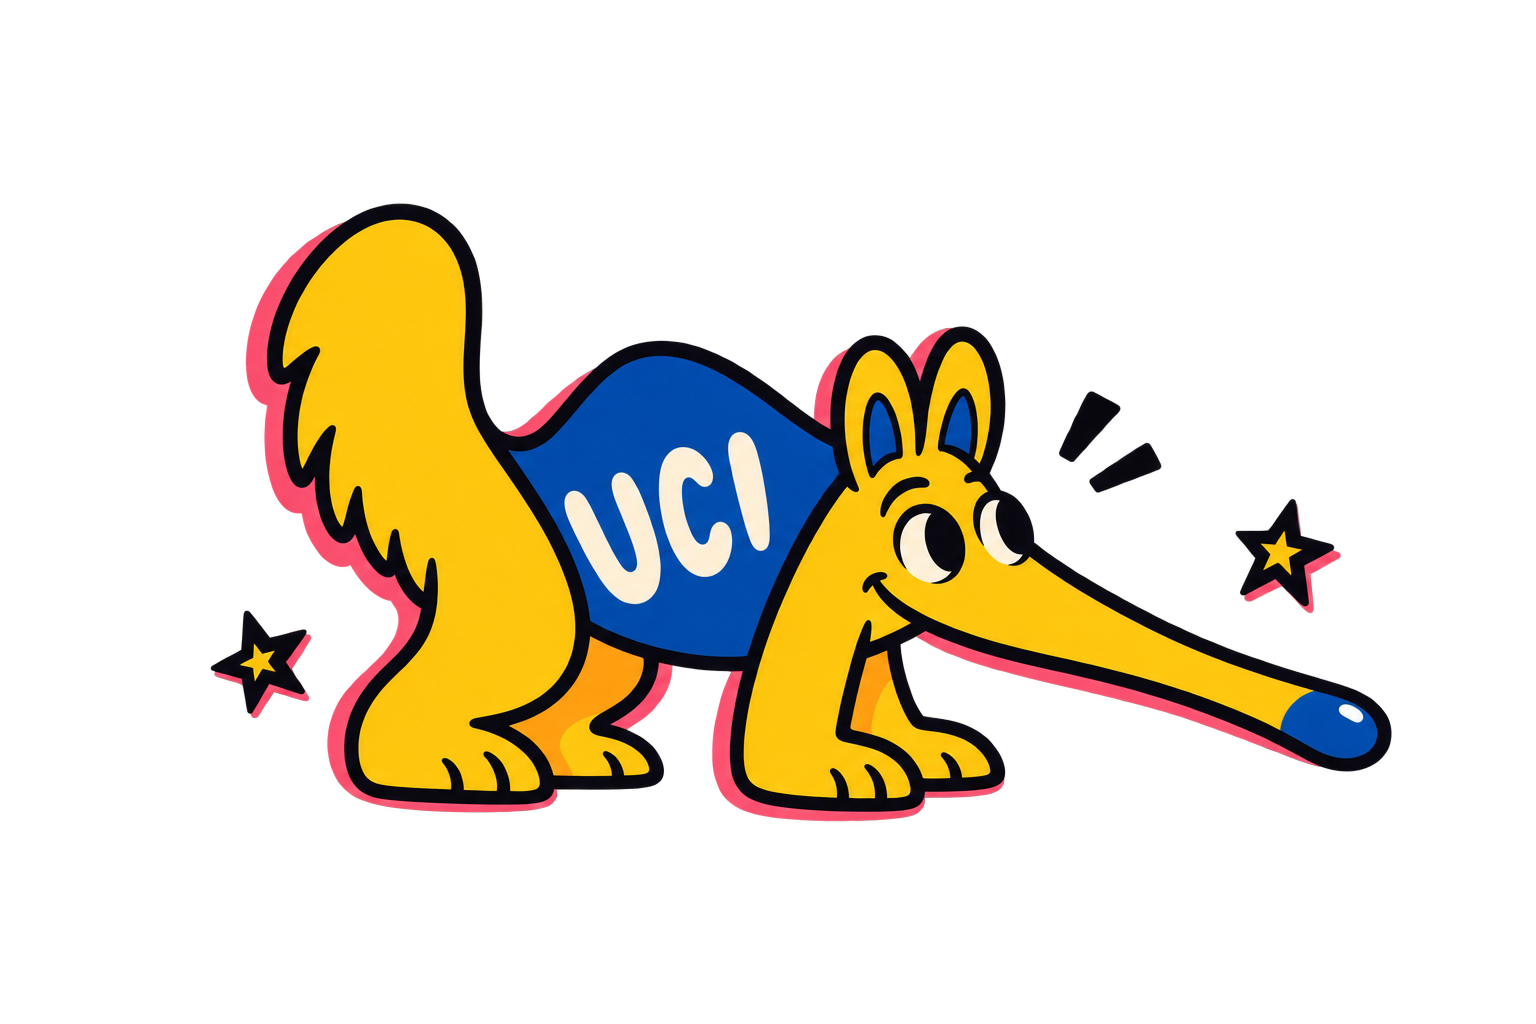
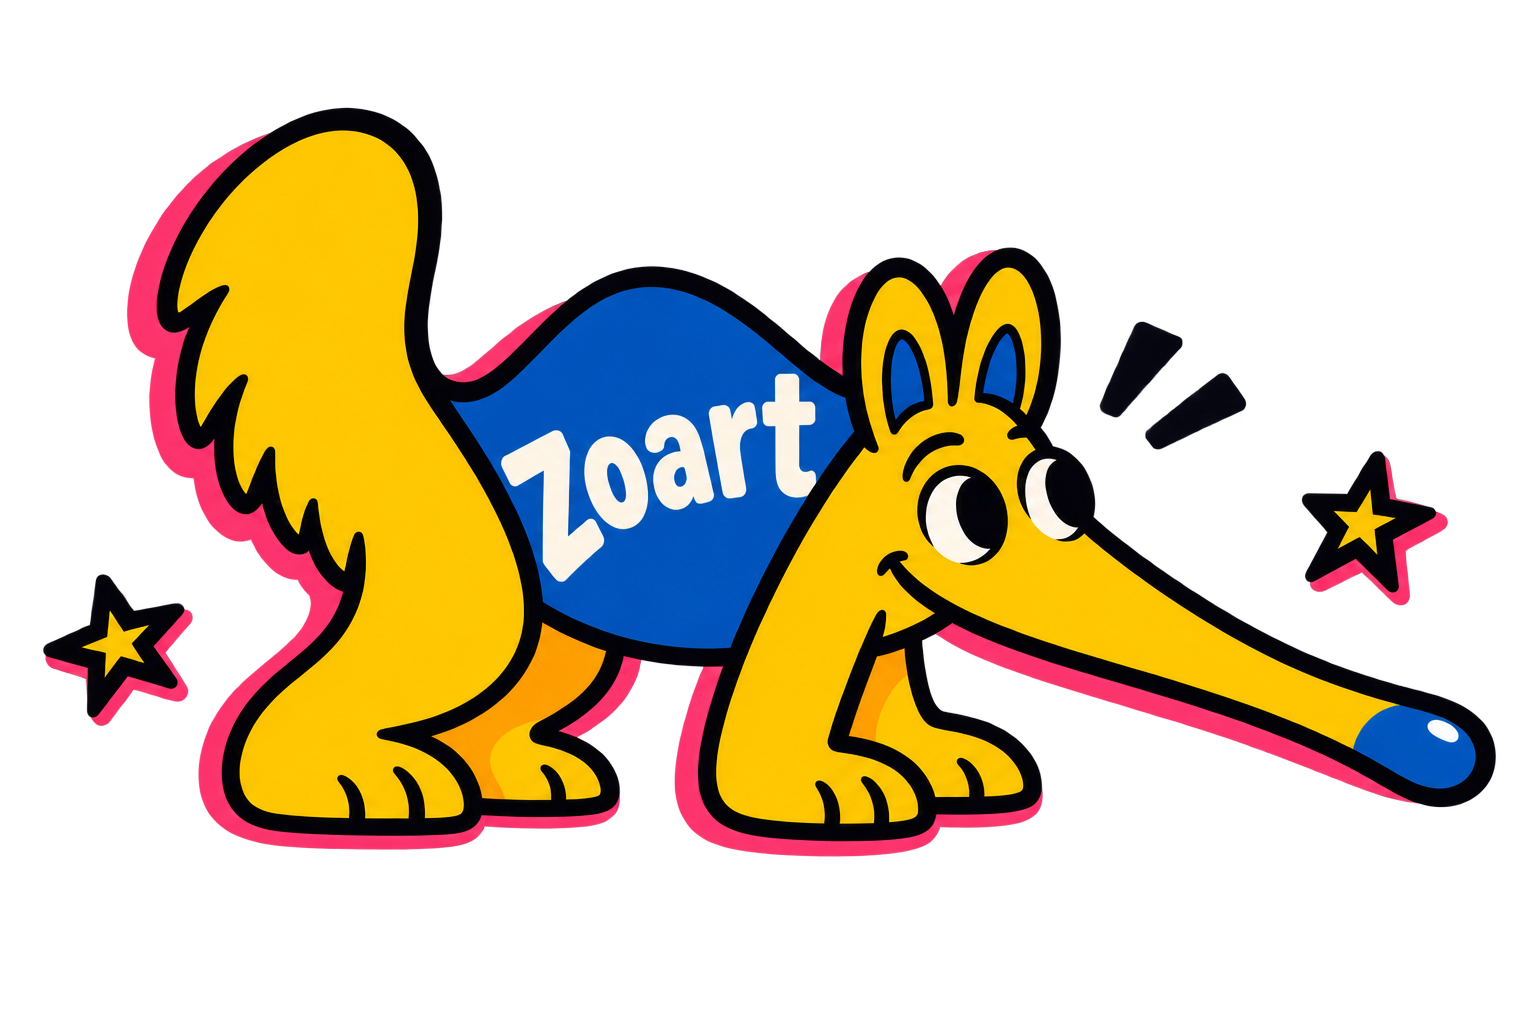
-More placeholders update(only need zoart buttons sfx now)

Changed region(s): [[0.0312, 0.0938, 1.0, 0.8438]]

diff --git a/zoart-a-project/src/app/sign-in/page.tsx b/zoart-a-project/src/app/sign-in/page.tsx
@@ -3,7 +3,7 @@
 import { useEffect, useRef, useState } from "react";
 import Link from "next/link";
 import Image from "next/image";
-import Icon from "../../../assets/placeholder.gif";
+import Icon from "../../../assets/zoartlogo.png";
 import { useAuth } from "@/components/auth/AuthProvider";
 import { googleAvailable, safeReturnPath, startGoogleSignIn, googleSignInError } from "@/lib/auth-flow";
 
